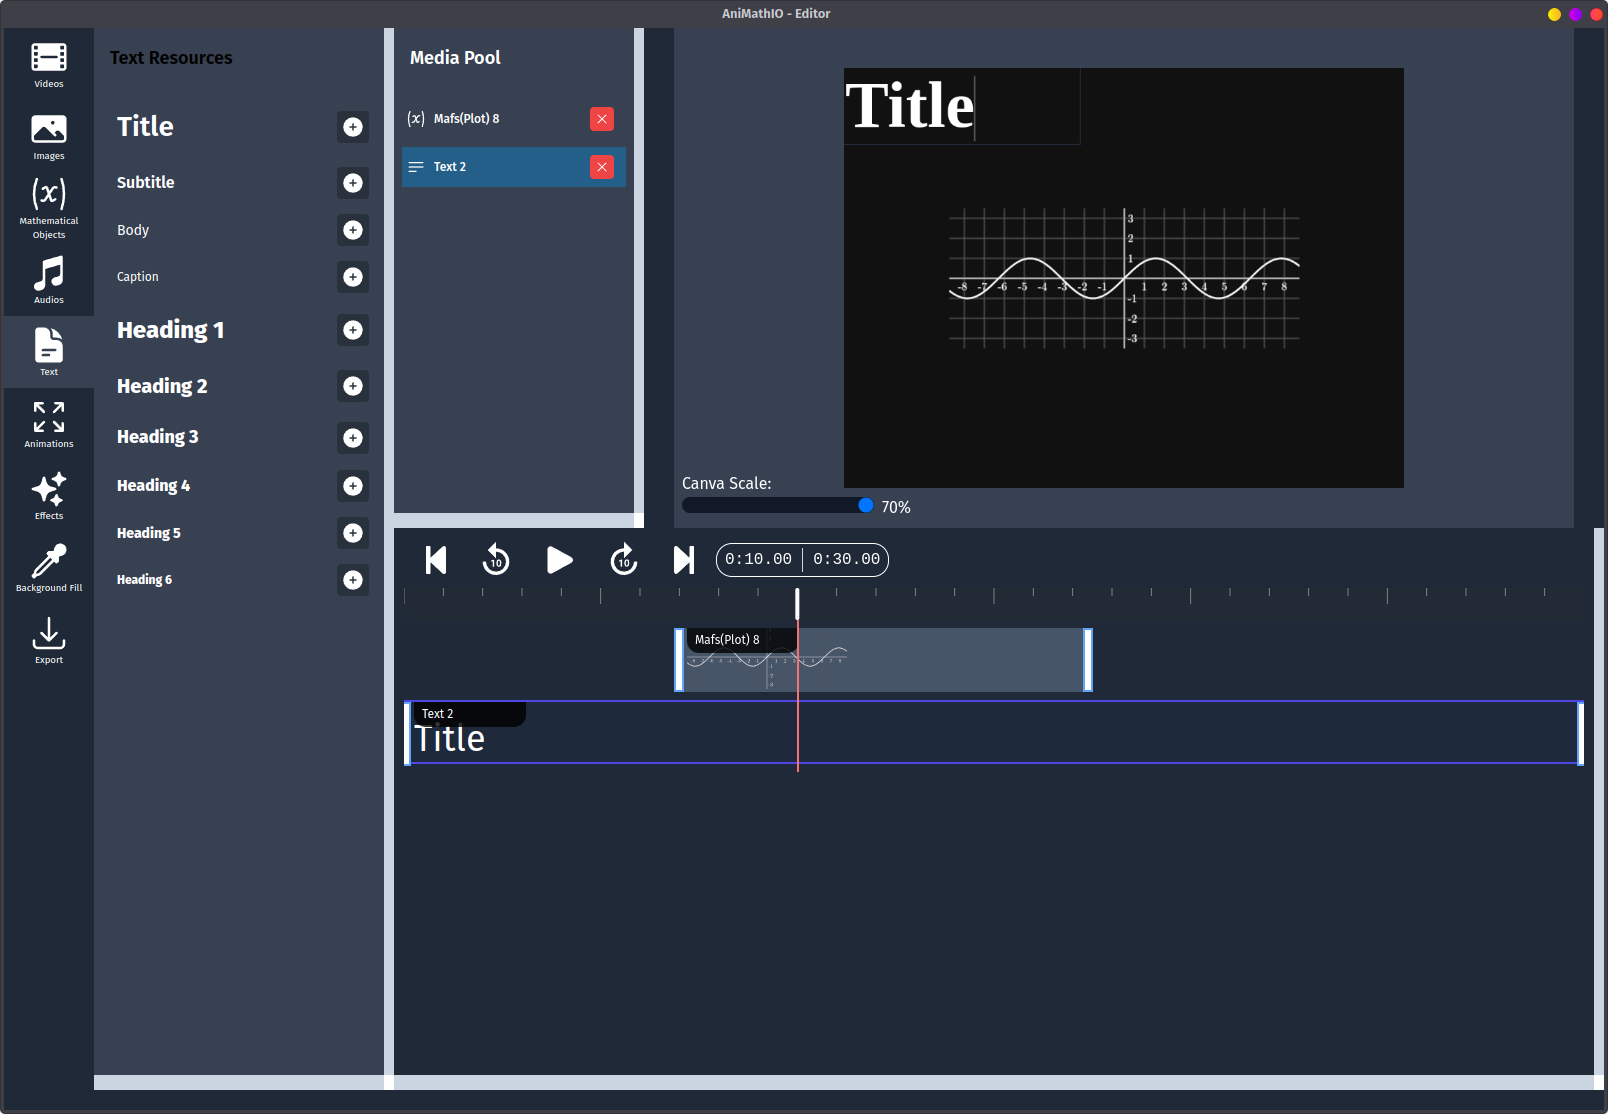
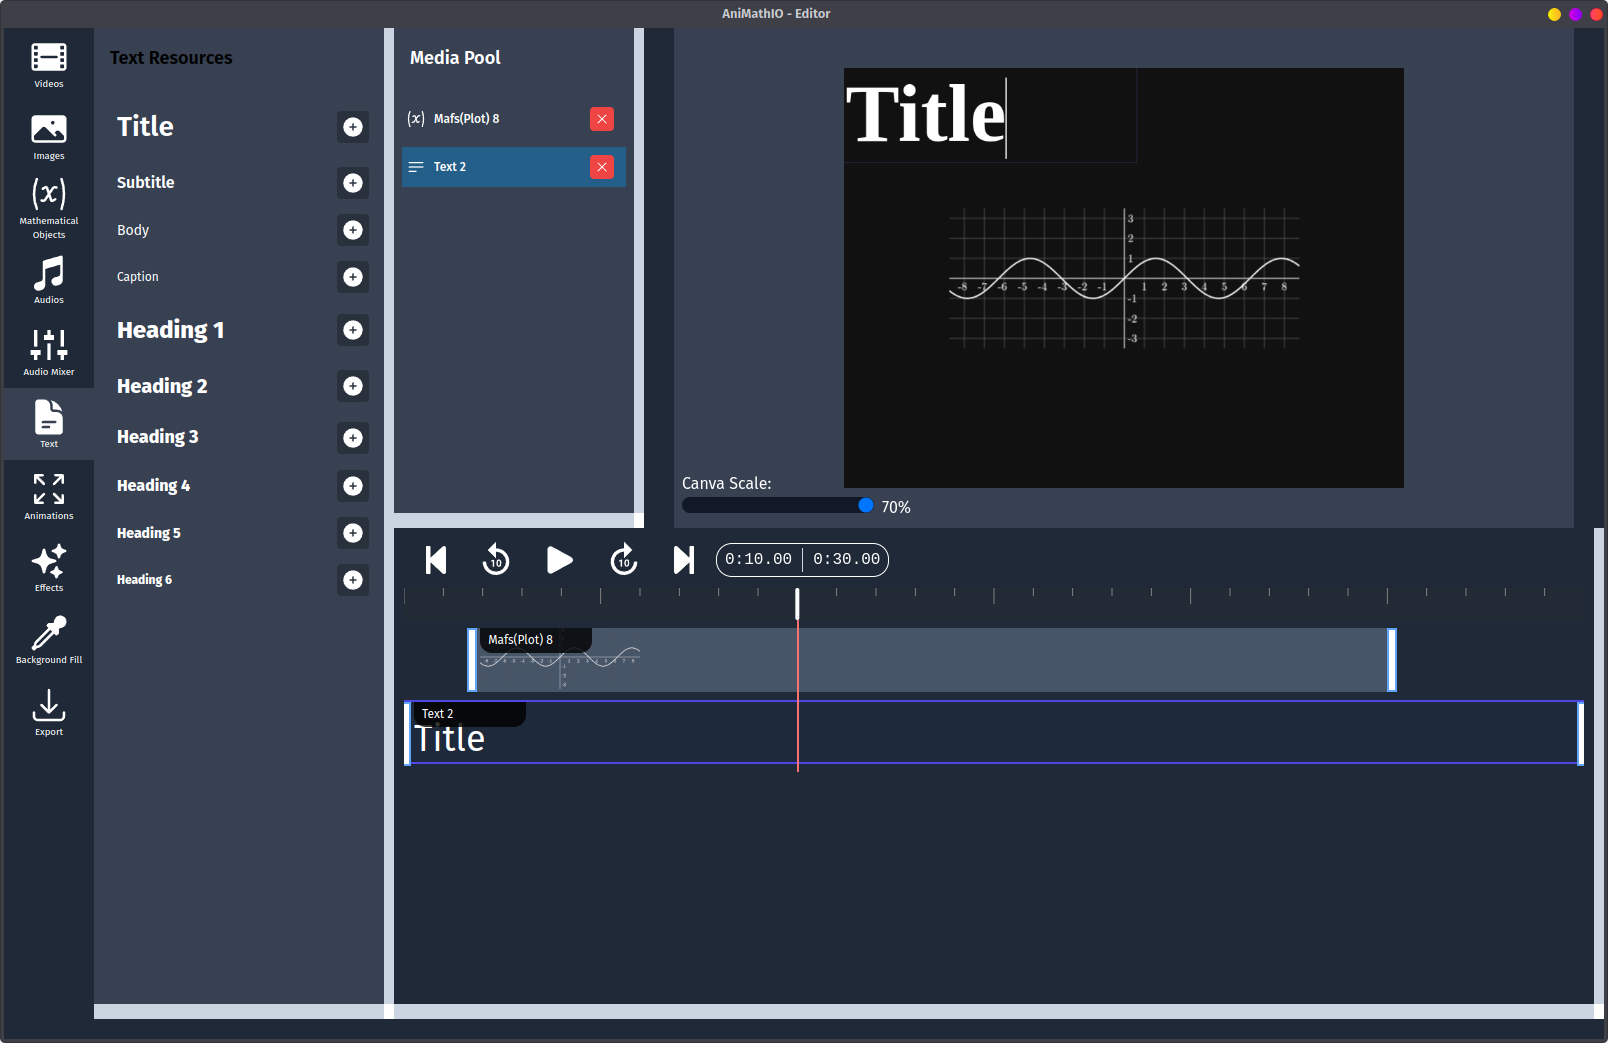
feat: updated documentation with changes coming from v1.5.0

diff --git a/blog/2025-03-17-launching-v1.5.0.md b/blog/2025-03-17-launching-v1.5.0.md
@@ -1,0 +1,55 @@
+---
+title: Launching AniMathIO v1.5.0! 🚀 Improved Testing & Enhanced User Experience
+slug: launching-v1.5.0
+tags: [release, v1.5.0, testing, audio, audio-mixer, audio-recorder, bug-fixes]
+hide_table_of_contents: false
+authors: MemerGamer
+---
+
+We're thrilled to announce the release of AniMathIO v1.5.0! This update brings significant improvements to our mathematical animation software, focusing on enhanced testing infrastructure, better user experience, and exciting new audio features.
+
+## What's New in v1.5.0
+
+### Enhanced User Experience
+
+- **Space Hotkey**: Start or pause your animation playback with a simple press of the space bar, making it easier to preview your work as you create
+- **Updated Help Menu**: Improved documentation access with direct links to our website, documentation, and Discord community
+- **Fixed Rendering Issues**: Resolved critical bugs in mathematical element rendering for smoother animations
+
+### Audio Improvements
+
+- **Audio Mixer Panel**: We implemented a comprehensive audio mixer panel for advanced audio control
+- **Audio Recorder Component**: Record your own audio directly within AniMathIO
+- **Fixed Audio Bugs**: Resolved issues with audio volume changing and NaN time display in the resource panel
+
+### Robust Testing Framework
+
+- **Vitest Integration**: Installed and configured Vitest for comprehensive testing
+- **Improved Test Coverage**: Significantly expanded our test suite, particularly for state-related functionality
+- **Vitest UI Package**: Added a visual interface for better testing experience
+
+### Under-the-Hood Improvements
+
+- **Updated Dependencies**: Fixed installation and build errors with updated package versions
+- **Backwards Compatibility**: Added backward compatible audio settings for project saving and loading
+- **CI Test Runner Enhancements**: Multiple fixes for our automated testing pipeline
+
+## Getting Started
+
+Ready to try the new features?
+
+1. [Download the latest version](https://animathio.com)
+2. Check out our [documentation](https://docs.animathio.com) for detailed guides
+3. Join our [Discord community](https://discord.com/invite/cZMTYSAHRX) to share your creations and get help
+
+## What's Next?
+
+We're continuously working to improve AniMathIO based on community feedback. Our upcoming priorities include:
+
+- Improved animations and effects
+- More robust testing
+- Dashboard page for project management
+
+Thank you for being part of the AniMathIO community! We can't wait to see the amazing mathematical animations you create with these new tools.
+
+For a complete list of changes, check out our [full changelog](https://github.com/AniMathIO/AniMathIO/blob/main/CHANGELOG.md).

diff --git a/docs/tutorial-advanced/working-with-multimedia.md b/docs/tutorial-advanced/working-with-multimedia.md
@@ -74,6 +74,24 @@ Audio can provide narration, explanations, or background music to enhance your a
 
 ![Adding Audio](./img/add-audio.png)
 
+### Recording Audio
+
+1. In the left sidebar, click on the **Audios** option
+2. Click the **Settings Icon** to select your microphone
+3. Click the **Record Audio** button
+![Recording Audio](./img/record-audio-select-mic.png)
+4. While recording you can **Pause** or **Stop** the recording by clicking the **Pause** or **Stop** buttons
+![Recording Audio Stop](./img/record-stop-audio.png)
+5. After you click the **Stop** button, the recorded audio will appear in a preview where you can listen to it and decide to **Discard** or **Add to project** it
+![Recording Audio Add](./img/record-add-audio.png)
+6. This will add the recorded audio to the **Audio Resources** section of your project, and now you can use the [adding audio files steps](#adding-audio-files) to add the audio to the media pool, timeline and canvas
+![Adding Audio](./img/record-add-audio-to-project.png)
+
+### Audio Mixer
+
+You can use the audio mixer to adjust the volume your audio files.
+![Audio Mixer](./img/audio-mixer.png)
+
 ## Combining Multimedia with Mathematical Elements
 
 The power of AniMathIO comes from combining multimedia with mathematical components:
@@ -82,7 +100,7 @@ The power of AniMathIO comes from combining multimedia with mathematical compone
 
 1. Add a video demonstrating a real-world phenomenon
 2. Overlay mathematical elements (graphs, equations) that explain the phenomenon
-3. Add audio narration explaining the connection or add background music
+3. Add audio narration explaining the connection or add background music (or both and adjust the volume with the audio mixer)
 4. Use animations to synchronize the mathematical elements with specific moments in the video
 
 ## Tips for Effective Multimedia Use

diff --git a/docs/tutorial-basics/understanding-the-interface.md b/docs/tutorial-basics/understanding-the-interface.md
@@ -17,7 +17,7 @@ AniMathIO's interface is designed with clarity and functionality in mind, divide
 
 - **File**: Quit the application
 - **Settings**: Configure application theme, optionally you can set Gemini 2.0 Flash API key, and can view keyboard shortcuts. Your preference and API key will be saved for future sessions
-- **Help**: Opens the AniMathIO documentation
+- **Help**: From here you can access the documentation, the website and the community Discord server
 
 ### Left Sidebar
 
@@ -27,6 +27,7 @@ The left sidebar contains all the tools and components you'll need to create you
 - **Images**: Import and manage your images
 - **Mathematical Objects**: Access various mathematical components like points, lines, functions, and more
 - **Audios**: Import and manage your audio files
+- **Audio Mixer**: Control the volume of your audio files
 - **Text**: Create and manage text elements
 - **Animations**: Create and manage animations
 - **Effects**: Apply various effects to your images and videos

diff --git a/blog/2025-03-09-launching-v1.4.1.md b/blog/2025-03-09-launching-v1.4.1.md
@@ -51,7 +51,7 @@ Along with this release, we're proud to launch our comprehensive documentation s
 
 If you're new to AniMathIO or want to explore the latest features:
 
-1. [Download the latest version](https://animathio.com/download)
+1. [Download the latest version](https://animathio.com)
 2. Visit our [new documentation site](https://docs.animathio.com) for tutorials
 3. Join our [community forum](https://community.animathio.com) to share your creations
 
